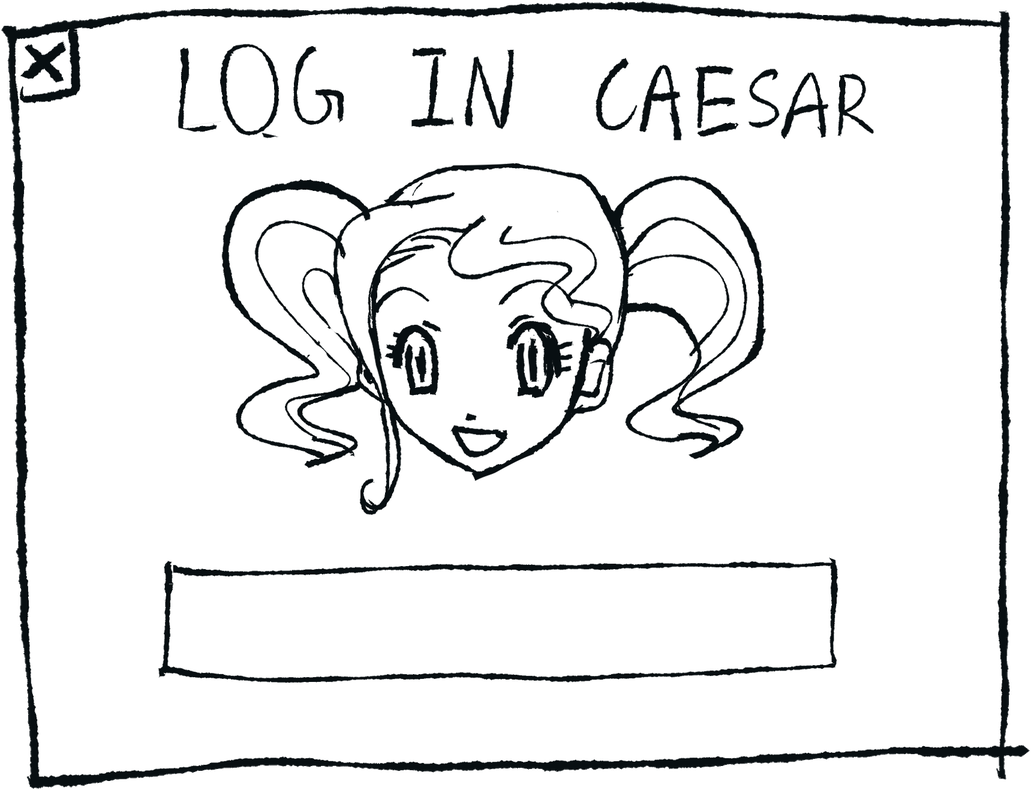
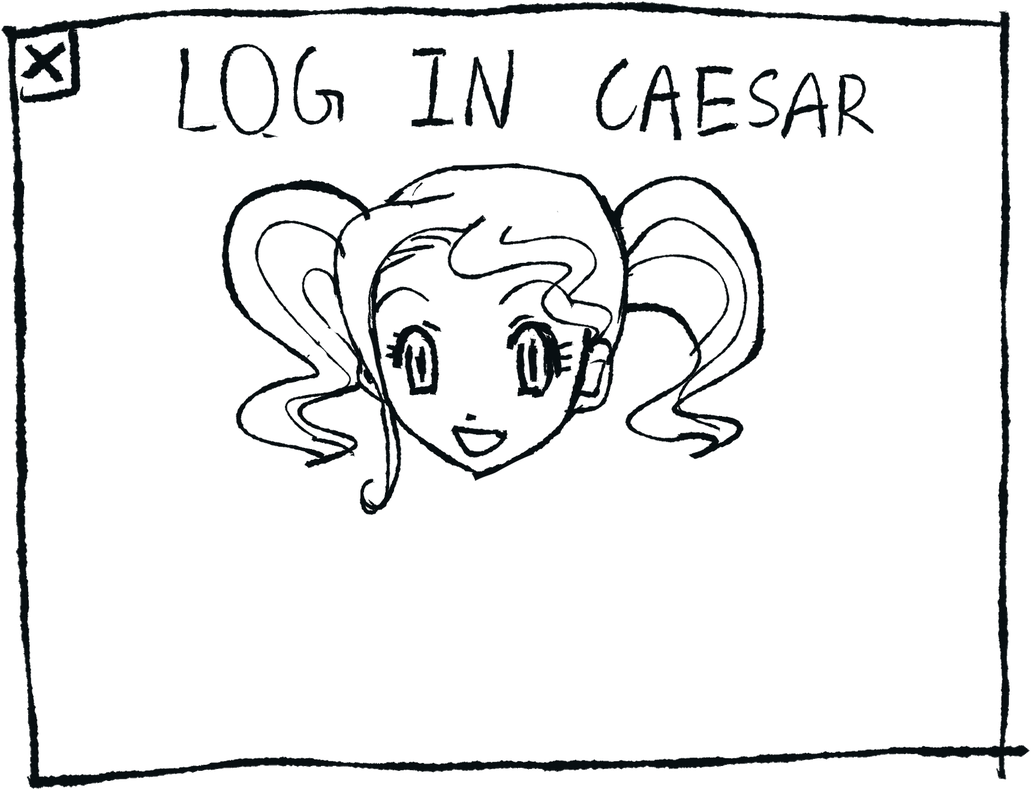
Caesar game: readability pass from playtest feedback
- Login: name box re-centred under Caesar's head, ENTER on the same
  centre line and clear of the window edge.
- Welcome: Caesar appears full-screen first, then settles into the
  window, clipped to its frame; dialogue shows one line at a time in
  larger text, click to continue.
- Poster shows the product introduction as plain text.
- News page reduced to headline and article text.
- Diary: blank ruled line after each date, page counter as 1/3.
- More room between labels/titles and their text throughout.

Claude-Session: https://claude.ai/code/session_016rzJvDVB3fa4JdvdjS9V7R

Changed region(s): [[0.1552, 0.6987, 0.838, 0.881]]

diff --git a/game/index.html b/game/index.html
@@ -38,18 +38,18 @@ img.sprite{position:absolute;max-width:none;pointer-events:none;-webkit-user-dra
 #loginFrame{transition:transform .2s}
 #loginFrame.shake{animation:nudge .35s}
 @keyframes nudge{20%{transform:translateX(-14px) rotate(-.4deg)}50%{transform:translateX(12px)}80%{transform:translateX(-6px)}}
-#nameInput{position:absolute;left:1000px;top:1262px;width:1100px;height:170px;border:0;outline:0;background:transparent;
-  font-family:var(--hand);font-size:104px;color:var(--ink);text-align:center;letter-spacing:.06em;padding:0 40px;caret-color:var(--ink)}
-#nameInput::placeholder{color:#b9b9bc;font-size:72px;letter-spacing:.08em}
+#loginBox{left:985px;top:1192px;width:1100px;height:160px}
+#nameInput{position:absolute;left:1005px;top:1200px;width:1060px;height:144px;border:0;outline:0;background:transparent;
+  font-family:var(--hand);font-size:92px;color:var(--ink);text-align:center;letter-spacing:.06em;padding:0 40px;caret-color:var(--ink)}
+#nameInput::placeholder{color:#b9b9bc;font-size:66px;letter-spacing:.08em}
 #nameInput:focus-visible{outline:none}
-#enterBtn{position:absolute;left:1835px;top:1462px;width:280px;height:118px;border:0;background:transparent;cursor:pointer;padding:0;
-  font-family:var(--hand);font-size:66px;color:var(--ink);letter-spacing:.12em;transition:transform .15s}
+#enterBtn{position:absolute;left:1405px;top:1384px;width:260px;height:96px;border:0;background:transparent;cursor:pointer;padding:0;
+  font-family:var(--hand);font-size:56px;color:var(--ink);letter-spacing:.12em;transition:transform .15s}
 #enterBtn svg{position:absolute;inset:0;width:100%;height:100%;overflow:visible}
 #enterBtn span{position:relative}
 #enterBtn:hover,#enterBtn:focus-visible{transform:scale(1.07) rotate(-1deg);outline:none}
 #enterBtn:disabled{opacity:.35;cursor:default;transform:none}
 #loginX{position:absolute;left:722px;top:322px;width:110px;height:110px;cursor:pointer;background:transparent;border:0}
-#loginHint{position:absolute;left:1000px;top:1475px;width:800px;font-size:46px;color:var(--graphite)}
 #loading{position:absolute;inset:0;display:grid;place-items:center;font-family:var(--hand);font-size:90px;color:#ddd;background:#333;z-index:99}
 
 /* ---------- character ---------- */
@@ -61,18 +61,20 @@ img.sprite{position:absolute;max-width:none;pointer-events:none;-webkit-user-dra
 @keyframes glow{0%{filter:brightness(2.2) drop-shadow(0 0 60px #fff)}100%{filter:drop-shadow(0 0 28px rgba(255,255,255,.9))}}
 
 /* ---------- prechat ---------- */
-#chatLog{position:absolute;left:1790px;top:400px;width:905px;height:1360px;overflow:hidden;font-size:60px;line-height:1.32;
-  display:flex;flex-direction:column;gap:34px;justify-content:flex-start}
+#chatLog{position:absolute;left:1795px;top:480px;width:890px;height:1120px;overflow:hidden;font-size:88px;line-height:1.38}
 #chatLog p{margin:0}
-#chatLog p.old{color:#4a4a4d}
+.preUI{transition:opacity .8s ease}
+.preUI.off{opacity:0}
+#charBox.zoom{transition:clip-path 1.5s cubic-bezier(.6,0,.2,1)}
+#charBox.zoom #charSvg{transition:transform 1.5s cubic-bezier(.6,0,.2,1)}
 .next{position:absolute;width:56px;height:72px;animation:bob 1s ease-in-out infinite;transform:rotate(90deg);pointer-events:none}
 @keyframes bob{50%{translate:0 14px}}
-#preNext{left:2620px;top:1690px}
-#preHint{position:absolute;left:1790px;top:1690px;font-size:44px;color:var(--graphite)}
+#preNext{left:2600px;top:1650px}
+#preHint{position:absolute;left:1795px;top:1668px;font-size:44px;color:var(--graphite)}
 
 /* ---------- desktop ---------- */
-#chatS{position:absolute;left:728px;top:1262px;width:1050px;height:195px;font-size:48px;line-height:1.3;overflow:hidden}
-#deskNext{left:1730px;top:1395px;width:38px;height:50px}
+#chatS{position:absolute;left:730px;top:1296px;width:1040px;height:140px;font-size:50px;line-height:1.36;overflow:hidden}
+#deskNext{left:1726px;top:1400px;width:38px;height:50px}
 .file{position:absolute;cursor:grab;transition:transform .16s ease;touch-action:none}
 .file img{position:absolute;top:0;max-width:none;pointer-events:none;-webkit-user-drag:none}
 .file .open{display:none}
@@ -99,46 +101,30 @@ img.sprite{position:absolute;max-width:none;pointer-events:none;-webkit-user-dra
 .wbody{position:absolute}
 
 /* poster */
-.poster{font-size:52px;line-height:1.35;display:flex;flex-direction:column;gap:28px}
-.poster .eyebrow{font-size:40px;letter-spacing:.22em;color:var(--graphite)}
-.poster h2{margin:0;font-weight:400;font-size:84px;line-height:1.08;text-wrap:balance}
-.poster h2 em{font-style:normal;display:block;font-size:60px;margin-top:10px}
-.poster dl{margin:0;display:grid;grid-template-columns:auto 1fr;gap:10px 26px;border-top:5px solid var(--ink);border-bottom:5px solid var(--ink);padding:26px 0}
-.poster dt{color:var(--graphite)}
-.poster dd{margin:0}
-.poster .tag{font-size:60px;transform:rotate(-2deg);border:5px solid var(--ink);padding:14px 26px;align-self:flex-start;border-radius:40px 12px 38px 14px}
+.poster{font-size:62px;line-height:1.55}
+.poster h2{margin:0 0 64px;font-weight:400;font-size:80px;line-height:1.1;letter-spacing:.04em}
+.poster p{margin:0}
 
 /* news */
-.news{font-family:var(--type);font-size:44px;line-height:1.42;color:var(--ink);display:flex;flex-direction:column;gap:26px}
-.news .mast{display:flex;justify-content:space-between;align-items:baseline;font-family:var(--print);font-size:36px;letter-spacing:.12em;border-bottom:6px double var(--ink);padding-bottom:14px}
-.news .mast b{font-weight:400;font-size:112px;letter-spacing:.04em;line-height:1}
-.news .kicker{font-family:var(--print);font-size:36px;letter-spacing:.3em;color:var(--graphite)}
-.news h2{margin:0;font-family:var(--print);font-weight:400;font-size:118px;line-height:1.02;text-wrap:balance}
-.news .deck{font-style:italic;font-size:50px;color:#333;border-bottom:3px solid var(--ink);padding-bottom:24px}
-.news .cols{display:grid;grid-template-columns:1fr 600px;gap:56px}
-.news .cols p{margin:0 0 24px}
-.news .drop::first-letter{float:left;font-family:var(--print);font-size:190px;line-height:.8;padding:12px 16px 0 0}
-.news figure{margin:0;display:flex;flex-direction:column;gap:14px}
-.news figure svg{width:600px;height:430px}
-.news figcaption{font-size:34px;color:var(--graphite);line-height:1.3}
-.news blockquote{margin:0;font-family:var(--print);font-size:64px;line-height:1.15;border-top:5px solid var(--ink);border-bottom:5px solid var(--ink);padding:22px 0}
-.news .fact{display:flex;gap:30px;align-items:baseline;font-family:var(--print);font-size:38px}
-.news .fact b{font-weight:400;font-size:110px;line-height:1}
+.news{font-family:var(--type);font-size:58px;line-height:1.6;color:var(--ink)}
+.news h2{margin:0;font-family:var(--print);font-weight:400;font-size:116px;line-height:1.08;text-wrap:balance;padding-bottom:56px;border-bottom:5px solid var(--ink);margin-bottom:64px}
+.news p{margin:0 0 48px}
+.news .drop::first-letter{float:left;font-family:var(--print);font-size:200px;line-height:.8;padding:16px 22px 0 0}
 
 /* diary */
-.diary{font-family:var(--diary);font-size:80px;line-height:96px;color:#1c1c22;
-  background:repeating-linear-gradient(to bottom,transparent 0 94px,#c9d3e0 94px 96px);background-position:0 8px}
+.diary{--lh:96px;font-family:var(--diary);font-size:78px;line-height:var(--lh);color:#1c1c22;
+  background:repeating-linear-gradient(to bottom,transparent 0 calc(var(--lh) - 2px),#c9d3e0 calc(var(--lh) - 2px) var(--lh));background-position:0 6px}
 .diary .page{display:none}
 .diary .page.on{display:block}
-.diary .date{font-size:88px;letter-spacing:.04em;text-decoration:underline;text-decoration-thickness:4px;text-underline-offset:12px}
+.diary .date{font-size:86px;letter-spacing:.04em;text-decoration:underline;text-decoration-thickness:4px;text-underline-offset:12px;margin-bottom:var(--lh)}
 .diary p{margin:0}
-.diary .entry{margin-bottom:96px}
+.diary .entry{margin-bottom:var(--lh)}
 .arrow{position:absolute;border:0;background:transparent;cursor:pointer;padding:0;transition:transform .15s}
 .arrow img{width:100%;height:100%;max-width:none;pointer-events:none}
 .arrow:hover,.arrow:focus-visible{transform:scale(1.1);outline:none}
 .arrow.pulse{animation:pulse .6s ease-in-out 5}
 @keyframes pulse{50%{transform:scale(1.45)}}
-#pageNo{position:absolute;font-family:var(--hand);font-size:56px}
+#pageNo{position:absolute;font-family:var(--hand);font-size:60px;text-align:center}
 
 /* photo caption */
 .caption{font-family:var(--diary);font-size:96px;line-height:1;display:flex;justify-content:space-between;align-items:center}
@@ -174,7 +160,7 @@ img.sprite{position:absolute;max-width:none;pointer-events:none;-webkit-user-dra
 #winpart .card{position:relative;width:1500px;padding:120px 80px 100px;text-align:center;animation:pop .5s .3s both cubic-bezier(.3,1.5,.6,1)}
 #winpart .card svg{position:absolute;inset:0;width:100%;height:100%;overflow:visible}
 #winpart h1{position:relative;margin:0;font-weight:400;font-size:280px;line-height:1;letter-spacing:.08em}
-#winpart p{position:relative;margin:30px 0 0;font-size:60px;color:var(--graphite)}
+#winpart p{position:relative;margin:60px 0 0;font-size:60px;color:var(--graphite)}
 #winpart button{position:relative;margin-top:50px;font-family:var(--hand);font-size:56px;padding:18px 60px;background:var(--paper);border:6px solid var(--ink);border-radius:30px 8px 34px 10px;cursor:pointer}
 #winpart button:hover,#winpart button:focus-visible{transform:scale(1.06);outline:none}
 
@@ -191,20 +177,21 @@ img.sprite{position:absolute;max-width:none;pointer-events:none;-webkit-user-dra
   <section id="login" class="layer">
     <div id="loginFrame" class="layer">
       <img class="sprite" data-m="login" alt="">
+      <img class="sprite" id="loginBox" src="assets/loginbox.png" alt="">
       <button id="loginX" aria-label="Close"></button>
       <form id="loginForm" autocomplete="off">
         <input id="nameInput" maxlength="14" placeholder="your name" aria-label="Your name" spellcheck="false">
-        <button id="enterBtn" type="submit" disabled><svg data-rough="280,118,11,6" aria-hidden="true"></svg><span>ENTER</span></button>
+        <button id="enterBtn" type="submit" disabled><svg data-rough="260,96,11,6" aria-hidden="true"></svg><span>ENTER</span></button>
       </form>
     </div>
   </section>
 
   <!-- 2. CAESAR WELCOME -->
   <section id="prechat" class="layer" hidden>
-    <img class="sprite" id="preFrame" src="assets/panel.png" style="left:432px;top:168px;width:2328px;height:1712px" alt="">
+    <img class="sprite preUI off" id="preFrame" src="assets/panel.png" style="left:432px;top:168px;width:2328px;height:1712px" alt="">
     <div id="preCharSlot"></div>
-    <img class="sprite" data-m="chatm" alt="">
-    <div id="chatLog" aria-live="polite"></div>
+    <img class="sprite preUI off" id="preChat" data-m="chatm" alt="">
+    <div id="chatLog" class="preUI off" aria-live="polite"></div>
     <div id="preHint" hidden>click to continue</div>
     <img class="next" id="preNext" src="assets/arrowR.png" hidden alt="">
   </section>
@@ -385,10 +372,16 @@ const C={app:1,mode:'pre',look:{x:0,y:0},lookT:{x:0,y:0},talk:false,smile:false,
   g:{a:0,tx:0,ty:0,va:0,target:null,twitch:0,broken:false,eyes:null,bounce:0}};
 function charMode(mode){
   C.mode=mode;
-  if(mode==='pre'){$('preCharSlot').appendChild(charBox);place(charBox,[0,0,1735,1872]);E.charSvg.style.transform='translate(164.8px,-30.2px) scale(1.43)';}
+  charBox.style.clipPath='';charBox.classList.remove('zoom');
+  if(mode==='pre'){$('preCharSlot').appendChild(charBox);place(charBox,[0,0,3200,2000]);preView(PRE_FIT);}
   else{$('deskCharSlot').appendChild(charBox);place(charBox,[196,141,1604,1172]);E.charSvg.style.transform='translate(-196px,-141px)';}
 }
-function charToStage(p){return C.mode==='pre'?{x:p[0]*1.43+164.8,y:p[1]*1.43-30.2}:{x:p[0],y:p[1]};}
+// welcome screen: Caesar first fills the screen, then settles inside the window frame (clipped to its inner edge)
+const PRE_BIG={s:2.7,tx:1600-640*2.7,ty:1000-470*2.7,clip:'inset(0px 0px 0px 0px)'};
+const PRE_FIT={s:1.43,tx:200,ty:15,clip:'inset(182px 455px 134px 446px)'};
+let PRE_XF=PRE_FIT;
+function preView(v){PRE_XF=v;E.charSvg.style.transform=`translate(${v.tx}px,${v.ty}px) scale(${v.s})`;charBox.style.clipPath=v.clip;}
+function charToStage(p){return C.mode==='pre'?{x:p[0]*PRE_XF.s+PRE_XF.tx,y:p[1]*PRE_XF.s+PRE_XF.ty}:{x:p[0],y:p[1]};}
 function setApp(n){C.app=n;E.A1.setAttribute('display',n===1?'inline':'none');E.A2.setAttribute('display',n===2?'inline':'none');}
 function setSmile(on){C.smile=on;if(C.app!==1)return;E.head1.setAttribute('href',on?'assets/hsmile.png':'assets/head1.png');
   E.eyes1.setAttribute('visibility',on?'hidden':'visible');E.mouth1.setAttribute('visibility',on?'hidden':'visible');}
@@ -505,16 +498,23 @@ const LINES=()=>[`Hi, ${NAME}, I'm Caesar, and I was AI-designed many years ago.
  `Remember, upload the correct one.`];
 let preDone=false;
 async function startPrechat(){
-  $('login').hidden=true;$('prechat').hidden=false;charMode('pre');setApp(1);
-  await wait(500);
-  const log=$('chatLog');
-  for(const line of LINES()){[...log.children].forEach(p=>p.classList.add('old'));const p=document.createElement('p');log.appendChild(p);
-    await type(p,line,32);await waitClickOr(1500);}
-  preDone=true;$('preNext').hidden=false;$('preHint').hidden=false;
+  $('login').hidden=true;$('prechat').hidden=false;charMode('pre');setApp(1);preView(PRE_BIG);
+  await waitClickOr(2200);
+  charBox.classList.add('zoom');void charBox.offsetWidth;preView(PRE_FIT);
+  await wait(900);document.querySelectorAll('.preUI').forEach(e=>e.classList.remove('off'));
+  await wait(700);charBox.classList.remove('zoom');
+  // visual-novel box: one line at a time, click to go on
+  const log=$('chatLog'),lines=LINES();
+  for(let i=0;i<lines.length;i++){log.textContent='';const p=document.createElement('p');log.appendChild(p);
+    $('preNext').hidden=true;$('preHint').hidden=true;
+    await type(p,lines[i],34);
+    $('preNext').hidden=false;$('preHint').hidden=false;$('preHint').textContent=i===lines.length-1?'click to start':'click to continue';
+    await waitClickOr(0);}
+  preDone=true;goDesktop();
 }
 let clickWaiter=null;
-function waitClickOr(ms){return new Promise(r=>{const t=setTimeout(()=>{clickWaiter=null;r();},ms);clickWaiter=()=>{clearTimeout(t);clickWaiter=null;r();};});}
-$('prechat').addEventListener('click',()=>{ac();if(preDone){goDesktop();return;}if(C.talk)skip=true;else if(clickWaiter)clickWaiter();});
+function waitClickOr(ms){return new Promise(r=>{const t=ms?setTimeout(()=>{clickWaiter=null;r();},ms):0;clickWaiter=()=>{clearTimeout(t);clickWaiter=null;r();};});}
+$('prechat').addEventListener('click',()=>{ac();if(preDone)return;if(C.talk)skip=true;else if(clickWaiter)clickWaiter();});
 
 /* ---------- 3. desktop ---------- */
 const FILES=[
@@ -530,7 +530,7 @@ async function goDesktop(){
   S.busy=true;
   await wait(400);await sayS(`Overall, you should upload three things.`);await wait(1300);
   await sayS(`Two for who I am, one for who made me.`);await wait(1500);
-  await sayS(`Drag a file into the upload box. Double-click a file if you want to look inside first.`);
+  await sayS(`Drag a file into the upload box. Double-click a file to look inside.`);
   S.busy=false;
 }
 function buildFiles(){const box=$('files');box.innerHTML='';
@@ -595,7 +595,7 @@ async function overload(f){
   await wait(900);
   clearInterval(iv);clearInterval(pop);clearInterval(inv);
   await crashScreen('caesar.exe has stopped responding');
-  resetAfterCrash(`...Ugh. My head is spinning. That wasn't me, ${NAME}. Let's try again.`);
+  resetAfterCrash(`...Ugh, my head. That wasn't me, ${NAME}. Let's try again.`);
 }
 
 /* poison file: neck snaps, eyes pop */
@@ -620,7 +620,7 @@ async function poison(){
   await wait(1200);setNoise(.4);await wait(500);
   clearInterval(iv);clearInterval(inv);
   await crashScreen('');
-  resetAfterCrash(`...Where— oh. It's you, ${NAME}. Everything went black. Please don't give me that one again.`);
+  resetAfterCrash(`...It's you, ${NAME}. Everything went black. Don't give me that one again.`);
 }
 async function crashScreen(text){
   stage.classList.remove('tear','invert');setNoise(0);
@@ -666,31 +666,15 @@ function openWin(f){if(S.win||S.busy)return;f.el.classList.remove('hover');
   ({poster:openPoster,news:openNews,diary:openDiary,clothes:openClothes,poison:openPoison,photo:openPhoto})[f.win]();}
 
 function openPoster(){const el=mkWin('win1','poster',[598,36,150,150]);
-  body(el,'win1',[2070,180,780,1640],`
-   <div class="eyebrow">PRODUCT INTRODUCTION</div>
-   <h2>Humanoid Teenage Robot<em>Girl A Edition</em></h2>
-   <p style="margin:0">The first super-intelligent product launched by <b style="font-weight:400;text-decoration:underline;text-decoration-thickness:4px">VOns</b>!</p>
-   <dl><dt>Model</dt><dd>Xm-813</dd><dt>Price</dt><dd>New product on sale, now only 10,000,000 ☊</dd></dl>
-   <div class="tag">Packed with every feature you could ever desire!</div>`,'poster');}
+  body(el,'win1',[2075,200,760,1620],`
+   <h2>Product Introduction</h2>
+   <p>Humanoid Teenage Robot - Girl A Edition, the first super-intelligent product launched by VOns! Model: Xm-813. Price: New product on sale, now only 10,000,000 ☊. Packed with every feature you could ever desire!</p>`,'poster');}
 
 function openNews(){const el=mkWin('win2','news',[1160,58,104,96]);
-  body(el,'win2',[1250,150,1560,1640],`
-   <div class="mast"><span>3039 · VOL. 52</span><b>THE ABZODIAC POST</b><span>2 ☊</span></div>
-   <div class="kicker">SOCIETY · TECHNOLOGY</div>
+  body(el,'win2',[1300,230,1460,1540],`
    <h2>Abzodiac and Humanoid Robotics</h2>
-   <div class="deck">Lost and alone after the war, survivors turn to virtual warmth.</div>
-   <div class="cols">
-     <div><p class="drop">After World War III, the population in Abzodiac declined by half. Lost and alone, survivors turned to virtual warmth, sparking a robotics boom.</p>
-       <p>By 3039 in Abzodiac, household robots are everywhere to be your friend, your caretaker, and your lover.</p>
-       <div class="fact"><b>½</b><span>of Abzodiac's population lost after World War III</span></div></div>
-     <figure><svg viewBox="0 0 600 430" aria-hidden="true">${hatchPic()}</svg><figcaption>A household robot at home, 3039.</figcaption></figure>
-   </div>
-   <blockquote>“Your friend, your caretaker, and your lover.”</blockquote>`,'news');}
-function hatchPic(){let s=`<rect x="6" y="6" width="588" height="418" fill="#fff" stroke="#141414" stroke-width="7"/>`;
-  for(let i=-430;i<600;i+=26)s+=`<line x1="${i}" y1="424" x2="${i+418}" y2="6" stroke="#9a9a9e" stroke-width="3"/>`;
-  s+=`<g fill="#fff" stroke="#141414" stroke-width="7" stroke-linejoin="round"><path d="M220 424 C 226 330, 250 300, 300 296 C 350 300, 374 330, 380 424Z"/><ellipse cx="300" cy="200" rx="78" ry="92"/><path d="M238 150 C 250 96, 352 96, 362 150 C 340 130, 270 128, 238 150Z" fill="#141414"/></g>
-  <g stroke="#141414" stroke-width="6" stroke-linecap="round"><line x1="272" y1="206" x2="272" y2="226"/><line x1="328" y1="206" x2="328" y2="226"/><path d="M284 254 q16 10 32 0" fill="none"/><line x1="300" y1="292" x2="300" y2="318"/><circle cx="300" cy="330" r="10" fill="#fff"/></g>
-  <path d="M462 80 l20 -20 M482 80 l-20 -20 M540 360 l16 16 M556 360 l-16 16" stroke="#141414" stroke-width="5"/>`;return s;}
+   <p class="drop">After World War III, the population in Abzodiac declined by half. Lost and alone, survivors turned to virtual warmth, sparking a robotics boom.</p>
+   <p>By 3039 in Abzodiac, household robots are everywhere to be your friend, your caretaker, and your lover.</p>`,'news');}
 
 const DIARY=[
  [['3039.11.28',"My brother is dead. Now it's just me and the female bot he left behind in this house. Honestly, I'm not sad at all. I just have no idea how to live with this machine."],
@@ -700,20 +684,18 @@ const DIARY=[
  [['3040.8.20',"I can finally bring myself to write this after a few days.\nI made an AI program just to speak to Caesar again. Caesar died on August 13. Her serial number is xm813. Was this fate all along?\nThe government ordered the destruction of all robots. People grew overly reliant on them, lost and discouraged. And honestly, they were right. But still, I can't accept that she's gone.\nWe were almost across the border when they caught us. To save me while I was unconscious, Caesar gave herself up to them. Her chip was handed back to me, crushed and broken, most of her memories wiped.\nThis AI Caesar doesn't know who I am. I don't have words for this.\nHow am I supposed to live without you?"]]];
 function openDiary(){const el=mkWin('win3','diary',[1160,58,104,96]);const D=S.diary;
   const pg=body(el,'win3',[1290,170,1500,1500],'','diary');
-  pg.style.fontSize='';
   DIARY.forEach((entries,i)=>{const p=document.createElement('div');p.className='page';
     entries.forEach(([d,t])=>{const e=document.createElement('div');e.className='entry';const h=document.createElement('div');h.className='date';h.textContent=d;e.appendChild(h);
       t.split('\n').forEach(par=>{const q=document.createElement('p');q.textContent=par;e.appendChild(q);});p.appendChild(e);});
-    if(i===2){p.style.fontSize='62px';p.style.lineHeight='72px';pg.style.backgroundSize='100% 72px';}
     pg.appendChild(p);});
   const b=M.win3;
   const mkA=(k,dir)=>{const a=document.createElement('button');a.className='arrow';a.setAttribute('aria-label',dir<0?'Previous page':'Next page');
     place(a,[M[k][0]-b[0],M[k][1]-b[1],M[k][2],M[k][3]]);a.innerHTML=`<img src="assets/${k}.png" alt="">`;a.addEventListener('click',()=>{D.page=Math.max(0,Math.min(2,D.page+dir));D.seen.add(D.page);sfx.open();render();});el.appendChild(a);return a;};
   const L=mkA('arrowL',-1),R=mkA('arrowR',1);
   const no=document.createElement('div');no.id='pageNo';place(no,[2400-b[0],1712-b[1],170,90]);el.appendChild(no);
-  function render(){[...pg.children].forEach((p,i)=>p.classList.toggle('on',i===D.page));L.hidden=D.page===0;R.hidden=D.page===2;no.textContent=`- ${D.page+1} -`;
-    pg.style.backgroundSize=D.page===2?'100% 72px':'100% 96px';
-    pg.style.backgroundImage=`repeating-linear-gradient(to bottom,transparent 0 ${D.page===2?70:94}px,#c9d3e0 ${D.page===2?70:94}px ${D.page===2?72:96}px)`;}
+  function render(){[...pg.children].forEach((p,i)=>p.classList.toggle('on',i===D.page));L.hidden=D.page===0;R.hidden=D.page===2;no.textContent=`${D.page+1}/3`;
+    // the last page is the longest entry, so it uses tighter ruling
+    pg.style.setProperty('--lh',D.page===2?'80px':'96px');pg.style.fontSize=D.page===2?'64px':'';}
   render();}
 
 function openPhoto(){const el=mkWin('winimg','photo',[1150,210,110,110]);
@@ -735,7 +717,7 @@ function sparkle(){const A=APP[C.app];for(let i=0;i<16;i++){const s=document.cre
   $('desktop').appendChild(s);requestAnimationFrame(()=>{s.style.transform=`translate(${(Math.random()-.5)*200}px,${-80-Math.random()*160}px) scale(${.3+Math.random()}) rotate(90deg)`;s.style.opacity='0';});setTimeout(()=>s.remove(),1000);}}
 
 /* ---------- boot ---------- */
-const PRE=['background.jpg','login.png','panel.png','chatm.png','chats.png','upload.png','success.png','prog0.png','prog1.png','prog2.png','prog3.png','head1.png','hsmile.png','head2.png','body1.png','body2.png','neck1.png','neck2.png','tailL.png','tailR.png','crashing.jpg','win1.png','win2.png','win3.png','win4.png','win5.png','winimg.png'];
+const PRE=['background.jpg','login.png','loginbox.png','panel.png','chatm.png','chats.png','upload.png','success.png','prog0.png','prog1.png','prog2.png','prog3.png','head1.png','hsmile.png','head2.png','body1.png','body2.png','neck1.png','neck2.png','tailL.png','tailR.png','crashing.jpg','win1.png','win2.png','win3.png','win4.png','win5.png','winimg.png'];
 let n=0;PRE.forEach(f=>{const i=new Image();i.onload=i.onerror=()=>{if(++n===PRE.length){$('loading').remove();nameInput.focus({preventScroll:true});}};i.src='assets/'+f;});
 charMode('pre');setApp(1);requestAnimationFrame(frame);
 })();

diff --git a/game/tools/build.py b/game/tools/build.py
@@ -163,3 +163,11 @@ save(btn,'btn4',scale=0.5)
 w4[y0:y1,x0:x1][ndimage.binary_dilation(oval,iterations=4)]=[255,255,255,255]
 save(w4,'win4',scale=0.5)
 json.dump(META,open(OUT+'meta.json','w'),indent=1)
+# ---- login: lift the hand-drawn name box out of the frame so it can be re-centred under Caesar ----
+lg=fillholes(despeck(load('login page.png'),200))
+bx=(966,1230,2118,1458); x0,y0,x1,y1=bx
+sp=np.zeros_like(lg); sp[y0:y1,x0:x1]=lg[y0:y1,x0:x1]
+d=dark(sp); sp[~d]=0; save(sp,'loginbox',scale=0.6)
+lg[y0:y1,x0:x1]=[255,255,255,255]
+save(lg,'login',scale=0.6)
+json.dump(META,open(OUT+'meta.json','w'),indent=1)
